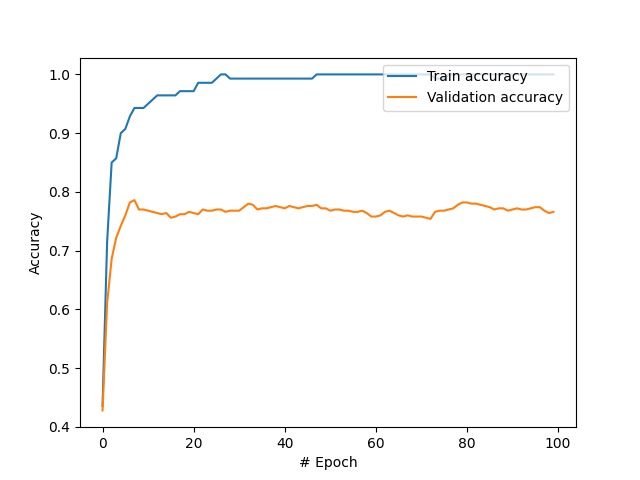
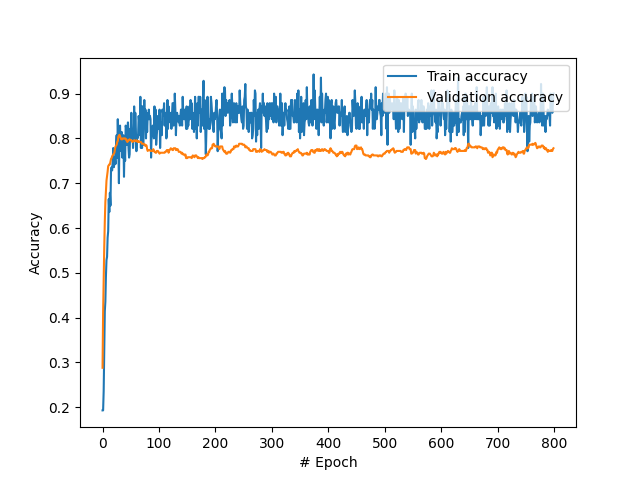
multi-head attention

diff --git a/train.py b/train.py
@@ -95,12 +95,12 @@ if __name__ == '__main__':
 
 	x, A, y = Variable(x), Variable(A), Variable(y)
 
-	n_epochs = 800
+	n_epochs = 100
 	model = GAT(
 		node_dim=num_features,
 		hid_dim=8,
 		num_classes=num_targets,
-		dropout=0.6,
+		dropout=0.0,
 		alpha=0.2,
 		num_heads=8
 	)
